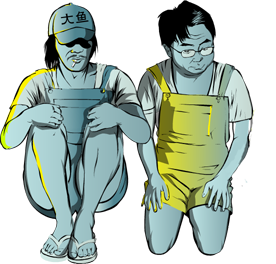
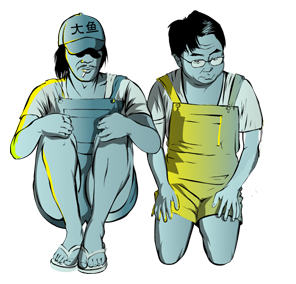
Added blurring and rotation on deck

diff --git a/src/slides/slide3.js b/src/slides/slide3.js
@@ -1,27 +1,38 @@
 define(["../slide"], function(Slide){
-	var CENTER_SIZE = 100;
+	var CENTER_RECT = [200, 130];
 	
 	var _lastX = 0, _lastY = 0;
+	var _centerRectX = 0, _centerRectY = 0;
+	
 	var _slideElement = document.getElementById("deck-slide");
+	var _twoMenElement = document.getElementById("two-men");
+	var _twoMenNonBlurredElement = document.getElementById("two-men-non-blurred");
+	var _twoMenBlurredElement = document.getElementById("two-men-blurred");
+	var _deckBackgroundElement = document.getElementById("two-men");
 	var _ak47Element = document.getElementById("ak47");
 	var _ak47NonBlurredElement = document.getElementById("ak47-non-blurred");
 	var _ak47BlurredElement = document.getElementById("ak47-blurred");
+	
+	_centerRectX = _twoMenElement.offsetLeft;
+	_centerRectY = _twoMenElement.offsetTop;
 
   var slide = new Slide("deck-slide", {
-    update: function(){
+	
+	update: function(){
 		// If mouse within center
-		var halfWidth = window.innerWidth / 2;
-		var halfHeight = window.innerHeight / 2;
-		if (Math.abs(halfWidth - _lastX) < CENTER_SIZE &&
-			Math.abs(halfHeight - _lastY) < CENTER_SIZE)
+		var centerX = _centerRectX + parseInt(_slideElement.style.left);
+		if (((_lastX > centerX) && (_lastX < CENTER_RECT[0] + centerX)) &&
+			((_lastY > _centerRectY) && (_lastY < CENTER_RECT[1] + _centerRectY)))
 		{
-			_ak47NonBlurredElement.style.opacity = 1;
-			//_ak47BlurredElement.style.opacity = 0;
+			_ak47Element.style.webkitTransform = _ak47Element.style.transform = "rotate(5deg)";
+			_ak47BlurredElement.style.opacity = 0;
+			_twoMenBlurredElement.style.opacity = 1;
 		}
 		else
 		{
-			_ak47NonBlurredElement.style.opacity = 0;
-			//_ak47BlurredElement.style.opacity = 1;
+			_ak47Element.style.webkitTransform = _ak47Element.style.transform = "rotate(-15deg)";
+			_ak47BlurredElement.style.opacity = 1;
+			_twoMenBlurredElement.style.opacity = 0;
 		}
     }
   });

diff --git a/index.html b/index.html
@@ -13,7 +13,7 @@
       <div id="intro-title" data-parallax="true" data-parallax-axis="x" data-parallax-z="0.2"><img src="assets/media/lhi.png"></div>
       <div id="intro-arrow">&rarr;</div>
     </div>
-    <div class="slide" id="ship-slide" data-order="1" data-src="slide2">
+    <div class="slide" id="ship-slide" data-order="2" data-src="slide2">
       <img src="assets/media/ship-background.png" alt=""/>
       <img id="hostage-left" src="assets/media/hostage-left.png" alt="" data-parallax data-parallax-axis="x"/>
       <img id="hostage-right" src="assets/media/hostage-right.png" alt="" data-parallax data-parallax-axis="x"/>
@@ -21,9 +21,12 @@
       <img id="hijacker-left" src="assets/media/hijacker-left.png" alt="" data-parallax data-parallax-z="0.2" data-parallax-axis="x"/>
       <img src="assets/media/ship-foreground.png" alt=""/>
     </div>
-    <div class="slide" id="deck-slide" data-order="2" data-src="slide3">
-      <img src="assets/media/deck-background.png" alt=""/>
-      <img id="two-men" src="assets/media/two-men.png" alt="" data-parallax data-parallax-z="0.01" data-parallax-axis="x"/>
+    <div class="slide" id="deck-slide" data-order="1" data-src="slide3">
+      <img id="deck-background" src="assets/media/deck-background.png" alt=""/>
+	  <div id="two-men" data-parallax data-parallax-z="0.02" data-parallax-axis="x">
+		<img id="two-men-non-blurred" src="assets/media/two-men.png" alt="" />
+		<img id="two-men-blurred" src="assets/media/two-men-blurred.png" alt="" />
+	  </div>
       <div id="ak47" data-parallax data-parallax-z="0.2" data-parallax-axis="x">
         <img id="ak47-non-blurred" src="assets/media/ak47.png" alt=""/>
         <img id="ak47-blurred" src="assets/media/ak47-blurred.png" alt=""/>

diff --git a/css/ak47.css b/css/ak47.css
@@ -7,6 +7,11 @@
   position: absolute;
 }
 
+#two-men, #two-men-non-blurred, #two-men-blurred,
+#ak47, #ak47-non-blurred, #ak47-blurred {
+	-webkit-transition: all .5s ease-in-out;
+	transition: all 0.5s ease-in-out;
+}
 #two-men {
 	left: 403px;
 	top: 208px;
@@ -14,22 +19,24 @@
 #ak47 {
 	top: 136px;
 	left: 217px;
-	-webkit-transition: all .5s ease-in-out;
-	transition: all 0.5s ease-in-out;
+	-webkit-transform: rotate(-15deg);
+	transform: rotate(-15deg);
+	-webkit-transform-origin: right 20%;
+	transform-origin: right 20%;
 }
+#tw-men img,
 #ak47 img {
 	position: absolute;
 }
-#ak47-non-blurred {
-	opacity: 1;
-	filter: blur(strength=50);
-}
+#two-men-non-blurred,
 #ak47-blurred {
+	opacity: 1;
+}
+/*
+#two-men-blurred {
 	opacity: 0;
 }
-
-#ak47-non-blurred,
-#ak47-blurred {
-	-webkit-transition: all .5s ease-in-out;
-	transition: all 0.5s ease-in-out;
+#ak47-non-blurred {
+	opacity: 0.6;
 }
+*/
